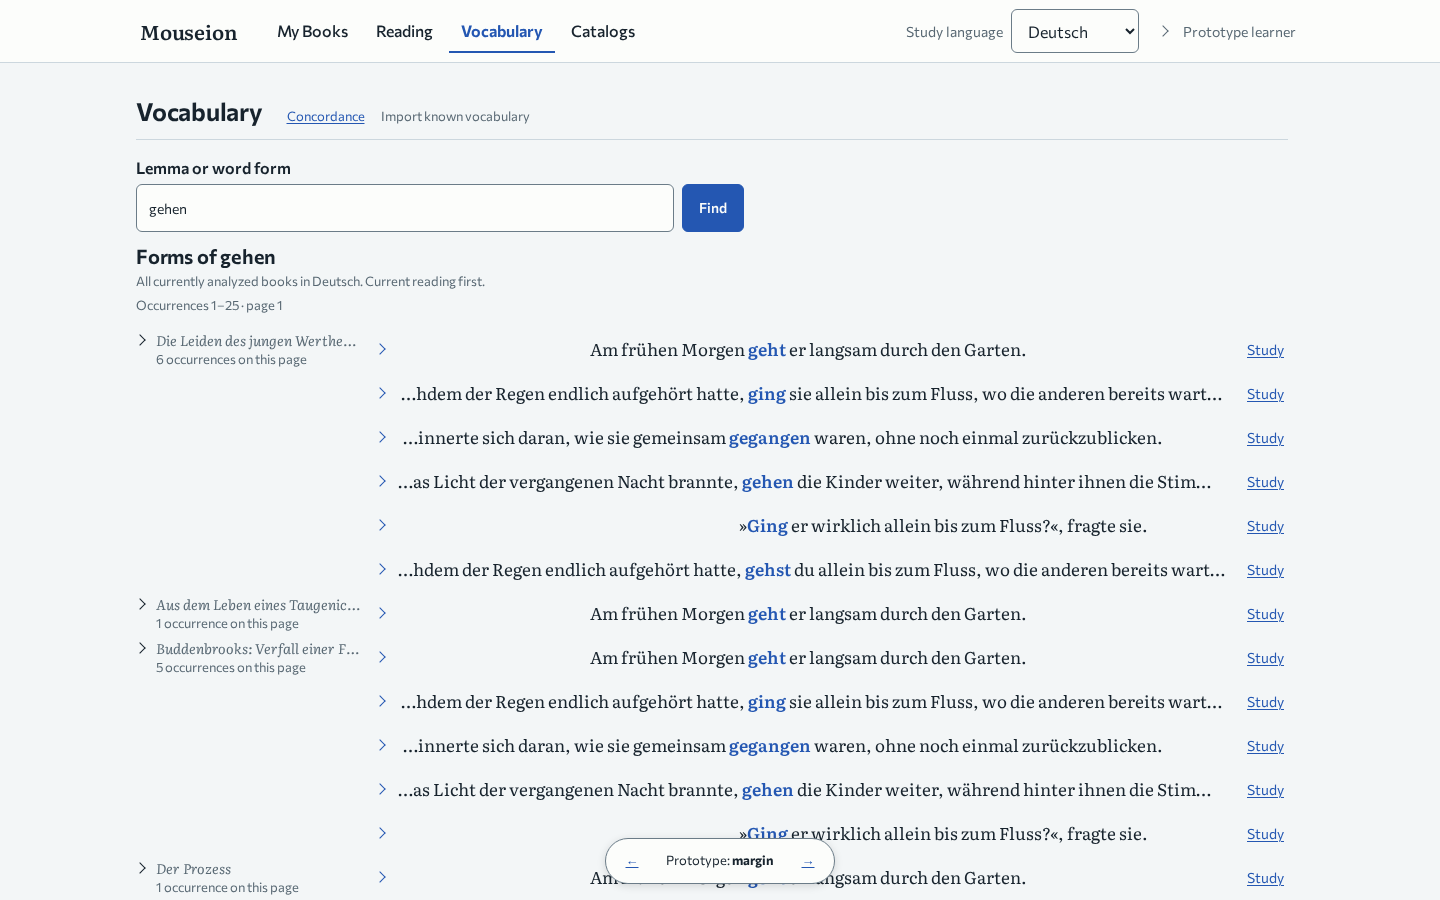
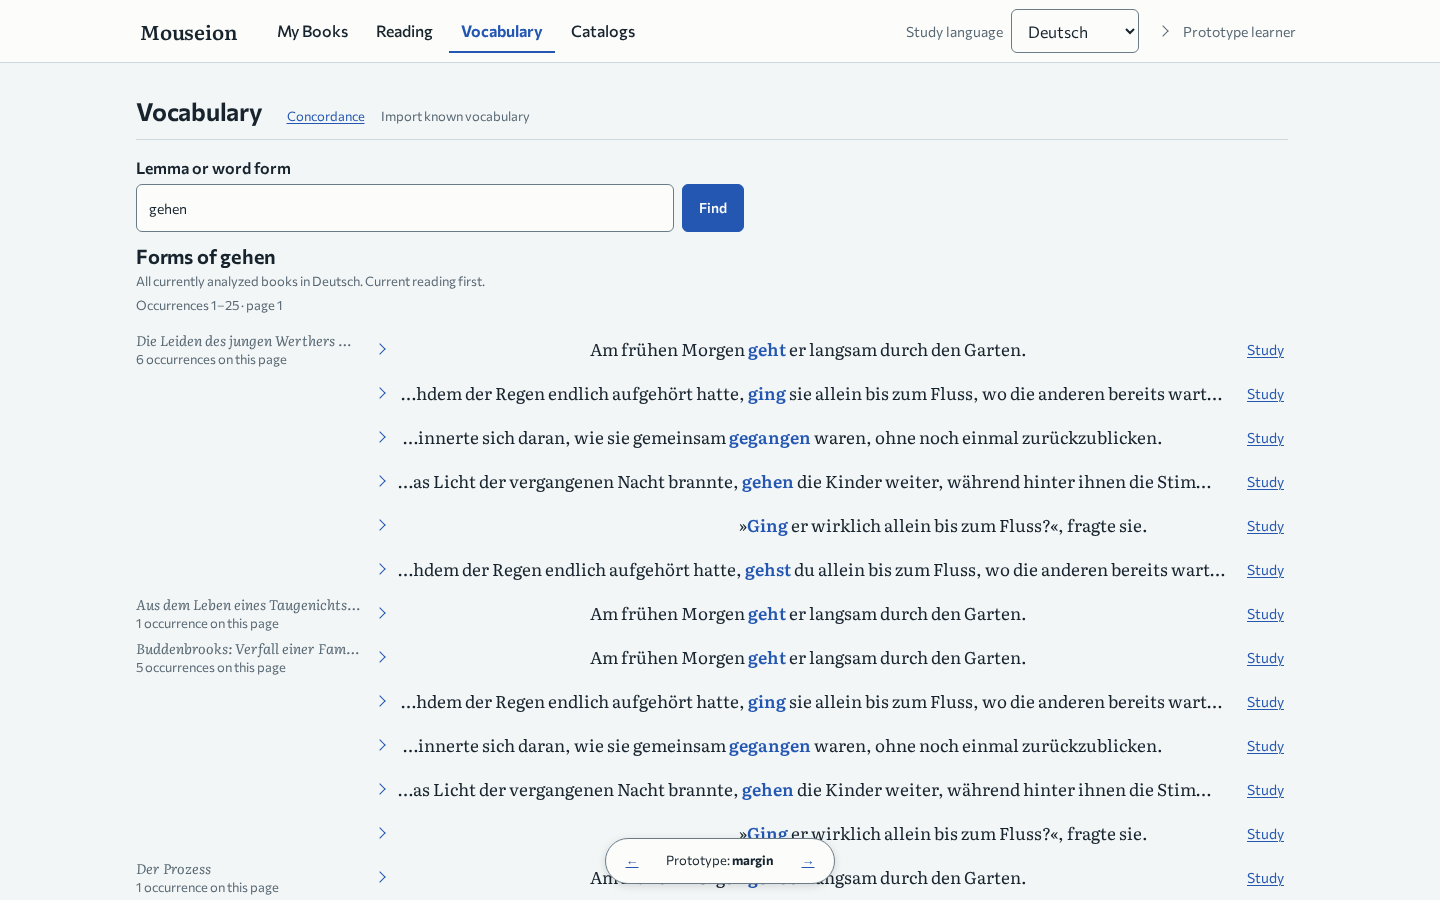
chore(prototype): keep Concordance source labels noninteractive
Record learner feedback for #1575: retain regular KWIC density and sentence disclosures; use Study for full book identity rather than expanding margin labels.

Changed region(s): [[0.0938, 0.6533, 0.25, 0.7467], [0.0938, 0.3733, 0.25, 0.4044], [0.0938, 0.9644, 0.2188, 0.9956]]

diff --git a/internal/webapp/static/concordance-prototype.css b/internal/webapp/static/concordance-prototype.css
@@ -15,15 +15,10 @@
 .cp-result { display: grid; grid-template-columns: 14rem minmax(0, 1fr) auto; column-gap: 1rem; align-items: start; min-width: 0; }
 .cp-result:focus { outline: 2px solid var(--mouseion-color-focus); outline-offset: 2px; }
 .cp-result > * { min-width: 0; }
-.cp-source { border: 0; border-radius: 0; margin: 0; padding: 0; }
-.cp-source summary { min-height: 44px; display: grid; grid-template-columns: 1rem minmax(0, 1fr); grid-template-rows: auto auto; align-content: center; gap: 0 .25rem; list-style: none; padding: 0; cursor: pointer; }
-.cp-source summary::before { grid-column: 1; grid-row: 1; align-self: center; margin: 0; }
-.cp-source-title { grid-column: 2; grid-row: 1; overflow: hidden; text-overflow: ellipsis; white-space: nowrap; font-family: var(--mouseion-font-reading); font-style: italic; font-size: 14px; line-height: 20px; color: var(--mouseion-color-text-muted); }
-.cp-source-count { grid-column: 2; grid-row: 2; white-space: nowrap; font-size: 13px; line-height: 18px; color: var(--mouseion-color-text-muted); font-variant-numeric: tabular-nums; }
+.cp-source { min-height: 44px; display: grid; grid-template-columns: minmax(0, 1fr); grid-template-rows: auto auto; align-content: center; margin: 0; padding: 0; }
+.cp-source-title { grid-column: 1; grid-row: 1; overflow: hidden; text-overflow: ellipsis; white-space: nowrap; font-family: var(--mouseion-font-reading); font-style: italic; font-size: 14px; line-height: 20px; color: var(--mouseion-color-text-muted); }
+.cp-source-count { grid-column: 1; grid-row: 2; white-space: nowrap; font-size: 13px; line-height: 18px; color: var(--mouseion-color-text-muted); font-variant-numeric: tabular-nums; }
 .cp-count-compact { display: none; }
-.cp-source-full { padding: .5rem 0 .75rem; font-size: 13px; overflow-wrap: anywhere; }
-.cp-source-full p { margin: 0 0 .25rem; }
-.cp-source-full .bibliographic-title { font-size: 16px; color: var(--mouseion-color-text); }
 .cp-page .cp-sentence { margin: 0; padding: 0; grid-column: 2; }
 .cp-page .cp-sentence summary { min-height: 44px; grid-template-columns: 1.25rem minmax(0, 1fr) minmax(0, max-content) minmax(0, 1.25fr); }
 .cp-page .concordance-study-link { min-height: 44px; padding: 0 .25rem; grid-column: 3; }
@@ -47,7 +42,6 @@
 .cp-switcher a { display: flex; align-items: center; justify-content: center; min-width: 44px; min-height: 44px; }
 @media (max-width: 40rem) {
   .cp-result { grid-template-columns: min(6.5rem, 26vw) minmax(0, 1fr) auto; column-gap: .5rem; }
-  .cp-source summary { grid-template-columns: .75rem minmax(0, 1fr); gap: 0 .125rem; }
   .cp-source-count { grid-column: 1 / -1; font-size: 13px; }
   .cp-count-desktop { display: none; }
   .cp-count-compact { display: inline; }
@@ -57,7 +51,6 @@
   .cp-page .cp-sentence .concordance-before { direction: rtl; text-align: right; }
   .cp-page .cp-sentence .concordance-surface { display: block; overflow-wrap: anywhere; line-height: 1.5; }
   .cp-page .concordance-context { padding-left: 0; grid-column: 1 / -1; }
-  .cp-page[data-variant="margin"] .cp-source-full { width: 100cqw; box-sizing: border-box; }
   .cp-page[data-variant="margin"] .concordance-context { width: 100cqw; max-width: none; box-sizing: border-box; margin-inline-start: calc(-1 * (min(6.5rem, 26vw) + .5rem)); padding-top: .5rem; }
   .cp-page .concordance-study-link { padding: 0; }
   .cp-page[data-variant="inline"] .cp-result { grid-template-columns: minmax(0, 1fr) auto 5rem; }

diff --git a/internal/webapp/concordance_prototype_templ.go b/internal/webapp/concordance_prototype_templ.go
@@ -441,7 +441,7 @@ func ConcordancePrototypePage(v concordancePrototypeView) templ.Component {
 								return templ_7745c5c3_Err
 							}
 						}
-						templ_7745c5c3_Err = templruntime.WriteString(templ_7745c5c3_Buffer, 44, "<details class=\"concordance-row cp-sentence\" name=\"cp-disclosures\"><summary aria-label=\"")
+						templ_7745c5c3_Err = templruntime.WriteString(templ_7745c5c3_Buffer, 44, "<details class=\"concordance-row cp-sentence\" name=\"cp-sentences\"><summary aria-label=\"")
 						if templ_7745c5c3_Err != nil {
 							return templ_7745c5c3_Err
 						}
@@ -855,114 +855,46 @@ func ConcordancePrototypeSource(row concordancePrototypeRow) templ.Component {
 			templ_7745c5c3_Var47 = templ.NopComponent
 		}
 		ctx = templ.ClearChildren(ctx)
-		templ_7745c5c3_Err = templruntime.WriteString(templ_7745c5c3_Buffer, 83, "<details class=\"cp-source\" name=\"cp-disclosures\"><summary aria-label=\"")
+		templ_7745c5c3_Err = templruntime.WriteString(templ_7745c5c3_Buffer, 83, "<div class=\"cp-source\"><span class=\"cp-source-title\">")
 		if templ_7745c5c3_Err != nil {
 			return templ_7745c5c3_Err
 		}
 		var templ_7745c5c3_Var48 string
-		templ_7745c5c3_Var48, templ_7745c5c3_Err = templ.JoinStringErrs("Source: " + row.Book)
+		templ_7745c5c3_Var48, templ_7745c5c3_Err = templ.JoinStringErrs(row.Book)
 		if templ_7745c5c3_Err != nil {
-			return templ.Error{Err: templ_7745c5c3_Err, FileName: `internal/webapp/concordance_prototype.templ`, Line: 136, Col: 45}
+			return templ.Error{Err: templ_7745c5c3_Err, FileName: `internal/webapp/concordance_prototype.templ`, Line: 136, Col: 42}
 		}
 		_, templ_7745c5c3_Err = templ_7745c5c3_Buffer.WriteString(templ.EscapeString(templ_7745c5c3_Var48))
 		if templ_7745c5c3_Err != nil {
 			return templ_7745c5c3_Err
 		}
-		templ_7745c5c3_Err = templruntime.WriteString(templ_7745c5c3_Buffer, 84, "\"><span class=\"cp-source-title\">")
+		templ_7745c5c3_Err = templruntime.WriteString(templ_7745c5c3_Buffer, 84, "</span> <span class=\"cp-source-count\"><span class=\"cp-count-desktop\">")
 		if templ_7745c5c3_Err != nil {
 			return templ_7745c5c3_Err
 		}
 		var templ_7745c5c3_Var49 string
-		templ_7745c5c3_Var49, templ_7745c5c3_Err = templ.JoinStringErrs(row.Book)
+		templ_7745c5c3_Var49, templ_7745c5c3_Err = templ.JoinStringErrs(row.countText())
 		if templ_7745c5c3_Err != nil {
-			return templ.Error{Err: templ_7745c5c3_Err, FileName: `internal/webapp/concordance_prototype.templ`, Line: 137, Col: 43}
+			return templ.Error{Err: templ_7745c5c3_Err, FileName: `internal/webapp/concordance_prototype.templ`, Line: 137, Col: 80}
 		}
 		_, templ_7745c5c3_Err = templ_7745c5c3_Buffer.WriteString(templ.EscapeString(templ_7745c5c3_Var49))
 		if templ_7745c5c3_Err != nil {
 			return templ_7745c5c3_Err
 		}
-		templ_7745c5c3_Err = templruntime.WriteString(templ_7745c5c3_Buffer, 85, "</span> <span class=\"cp-source-count\"><span class=\"cp-count-desktop\">")
+		templ_7745c5c3_Err = templruntime.WriteString(templ_7745c5c3_Buffer, 85, "</span><span class=\"cp-count-compact\">")
 		if templ_7745c5c3_Err != nil {
 			return templ_7745c5c3_Err
 		}
 		var templ_7745c5c3_Var50 string
-		templ_7745c5c3_Var50, templ_7745c5c3_Err = templ.JoinStringErrs(row.countText())
+		templ_7745c5c3_Var50, templ_7745c5c3_Err = templ.JoinStringErrs(fmt.Sprint(row.Count))
 		if templ_7745c5c3_Err != nil {
-			return templ.Error{Err: templ_7745c5c3_Err, FileName: `internal/webapp/concordance_prototype.templ`, Line: 138, Col: 81}
+			return templ.Error{Err: templ_7745c5c3_Err, FileName: `internal/webapp/concordance_prototype.templ`, Line: 137, Col: 143}
 		}
 		_, templ_7745c5c3_Err = templ_7745c5c3_Buffer.WriteString(templ.EscapeString(templ_7745c5c3_Var50))
 		if templ_7745c5c3_Err != nil {
 			return templ_7745c5c3_Err
 		}
-		templ_7745c5c3_Err = templruntime.WriteString(templ_7745c5c3_Buffer, 86, "</span><span class=\"cp-count-compact\">")
-		if templ_7745c5c3_Err != nil {
-			return templ_7745c5c3_Err
-		}
-		var templ_7745c5c3_Var51 string
-		templ_7745c5c3_Var51, templ_7745c5c3_Err = templ.JoinStringErrs(fmt.Sprint(row.Count))
-		if templ_7745c5c3_Err != nil {
-			return templ.Error{Err: templ_7745c5c3_Err, FileName: `internal/webapp/concordance_prototype.templ`, Line: 138, Col: 144}
-		}
-		_, templ_7745c5c3_Err = templ_7745c5c3_Buffer.WriteString(templ.EscapeString(templ_7745c5c3_Var51))
-		if templ_7745c5c3_Err != nil {
-			return templ_7745c5c3_Err
-		}
-		templ_7745c5c3_Err = templruntime.WriteString(templ_7745c5c3_Buffer, 87, " on page</span></span></summary><div class=\"cp-source-full\"><p class=\"bibliographic-title\">")
-		if templ_7745c5c3_Err != nil {
-			return templ_7745c5c3_Err
-		}
-		var templ_7745c5c3_Var52 string
-		templ_7745c5c3_Var52, templ_7745c5c3_Err = templ.JoinStringErrs(row.Book)
-		if templ_7745c5c3_Err != nil {
-			return templ.Error{Err: templ_7745c5c3_Err, FileName: `internal/webapp/concordance_prototype.templ`, Line: 141, Col: 44}
-		}
-		_, templ_7745c5c3_Err = templ_7745c5c3_Buffer.WriteString(templ.EscapeString(templ_7745c5c3_Var52))
-		if templ_7745c5c3_Err != nil {
-			return templ_7745c5c3_Err
-		}
-		templ_7745c5c3_Err = templruntime.WriteString(templ_7745c5c3_Buffer, 88, "</p><p>")
-		if templ_7745c5c3_Err != nil {
-			return templ_7745c5c3_Err
-		}
-		var templ_7745c5c3_Var53 string
-		templ_7745c5c3_Var53, templ_7745c5c3_Err = templ.JoinStringErrs(row.Author)
-		if templ_7745c5c3_Err != nil {
-			return templ.Error{Err: templ_7745c5c3_Err, FileName: `internal/webapp/concordance_prototype.templ`, Line: 142, Col: 18}
-		}
-		_, templ_7745c5c3_Err = templ_7745c5c3_Buffer.WriteString(templ.EscapeString(templ_7745c5c3_Var53))
-		if templ_7745c5c3_Err != nil {
-			return templ_7745c5c3_Err
-		}
-		templ_7745c5c3_Err = templruntime.WriteString(templ_7745c5c3_Buffer, 89, "</p>")
-		if templ_7745c5c3_Err != nil {
-			return templ_7745c5c3_Err
-		}
-		if row.Priority {
-			templ_7745c5c3_Err = templruntime.WriteString(templ_7745c5c3_Buffer, 90, "<p>Applied priority book</p>")
-			if templ_7745c5c3_Err != nil {
-				return templ_7745c5c3_Err
-			}
-		}
-		if row.Continued {
-			templ_7745c5c3_Err = templruntime.WriteString(templ_7745c5c3_Buffer, 91, "<p>Continued from the previous page</p>")
-			if templ_7745c5c3_Err != nil {
-				return templ_7745c5c3_Err
-			}
-		}
-		templ_7745c5c3_Err = templruntime.WriteString(templ_7745c5c3_Buffer, 92, "<p>")
-		if templ_7745c5c3_Err != nil {
-			return templ_7745c5c3_Err
-		}
-		var templ_7745c5c3_Var54 string
-		templ_7745c5c3_Var54, templ_7745c5c3_Err = templ.JoinStringErrs(row.countText())
-		if templ_7745c5c3_Err != nil {
-			return templ.Error{Err: templ_7745c5c3_Err, FileName: `internal/webapp/concordance_prototype.templ`, Line: 149, Col: 23}
-		}
-		_, templ_7745c5c3_Err = templ_7745c5c3_Buffer.WriteString(templ.EscapeString(templ_7745c5c3_Var54))
-		if templ_7745c5c3_Err != nil {
-			return templ_7745c5c3_Err
-		}
-		templ_7745c5c3_Err = templruntime.WriteString(templ_7745c5c3_Buffer, 93, "</p></div></details>")
+		templ_7745c5c3_Err = templruntime.WriteString(templ_7745c5c3_Buffer, 86, " on page</span></span></div>")
 		if templ_7745c5c3_Err != nil {
 			return templ_7745c5c3_Err
 		}
